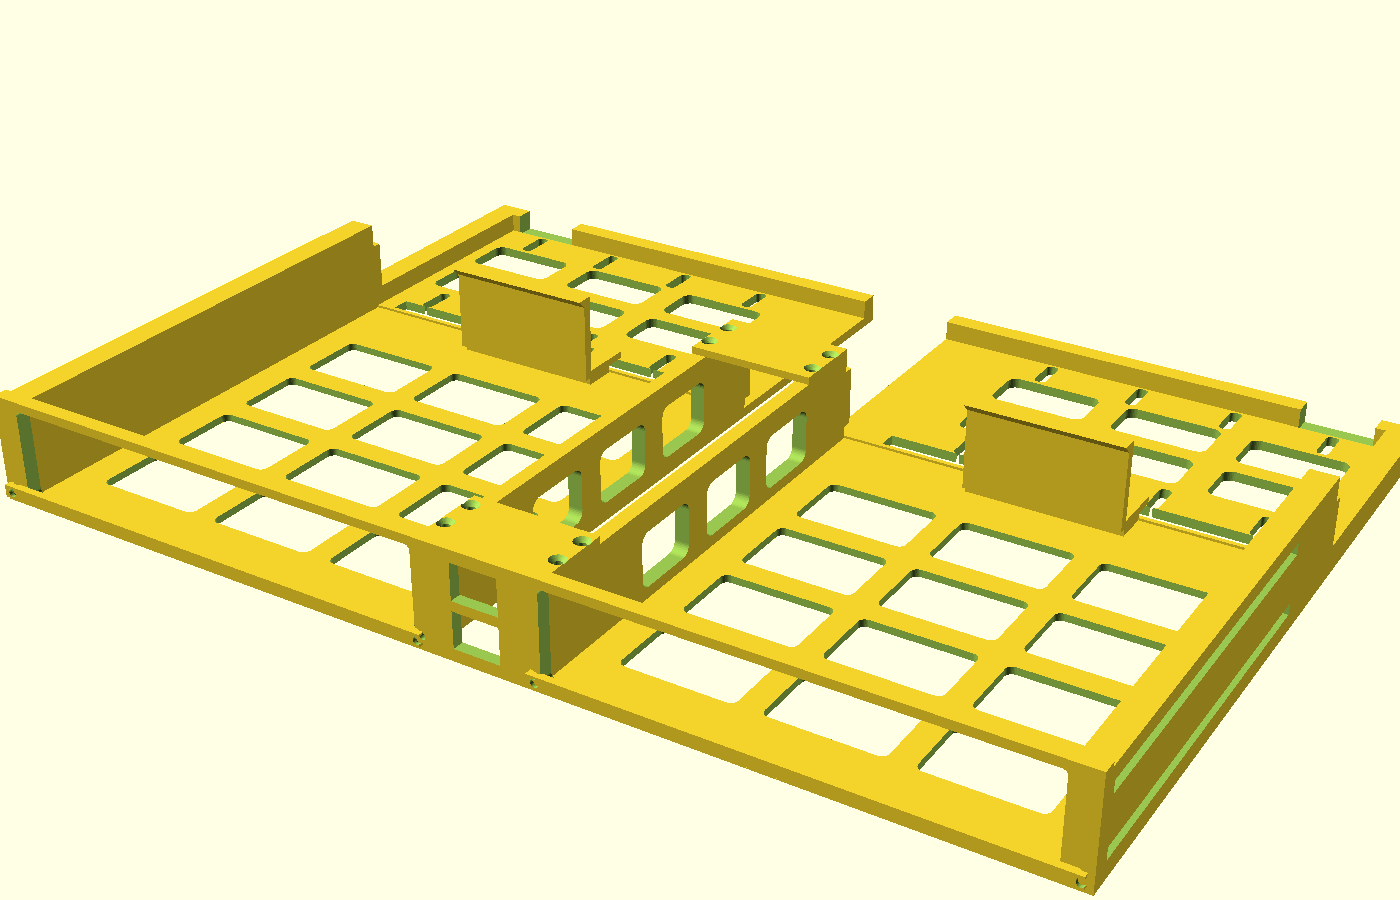
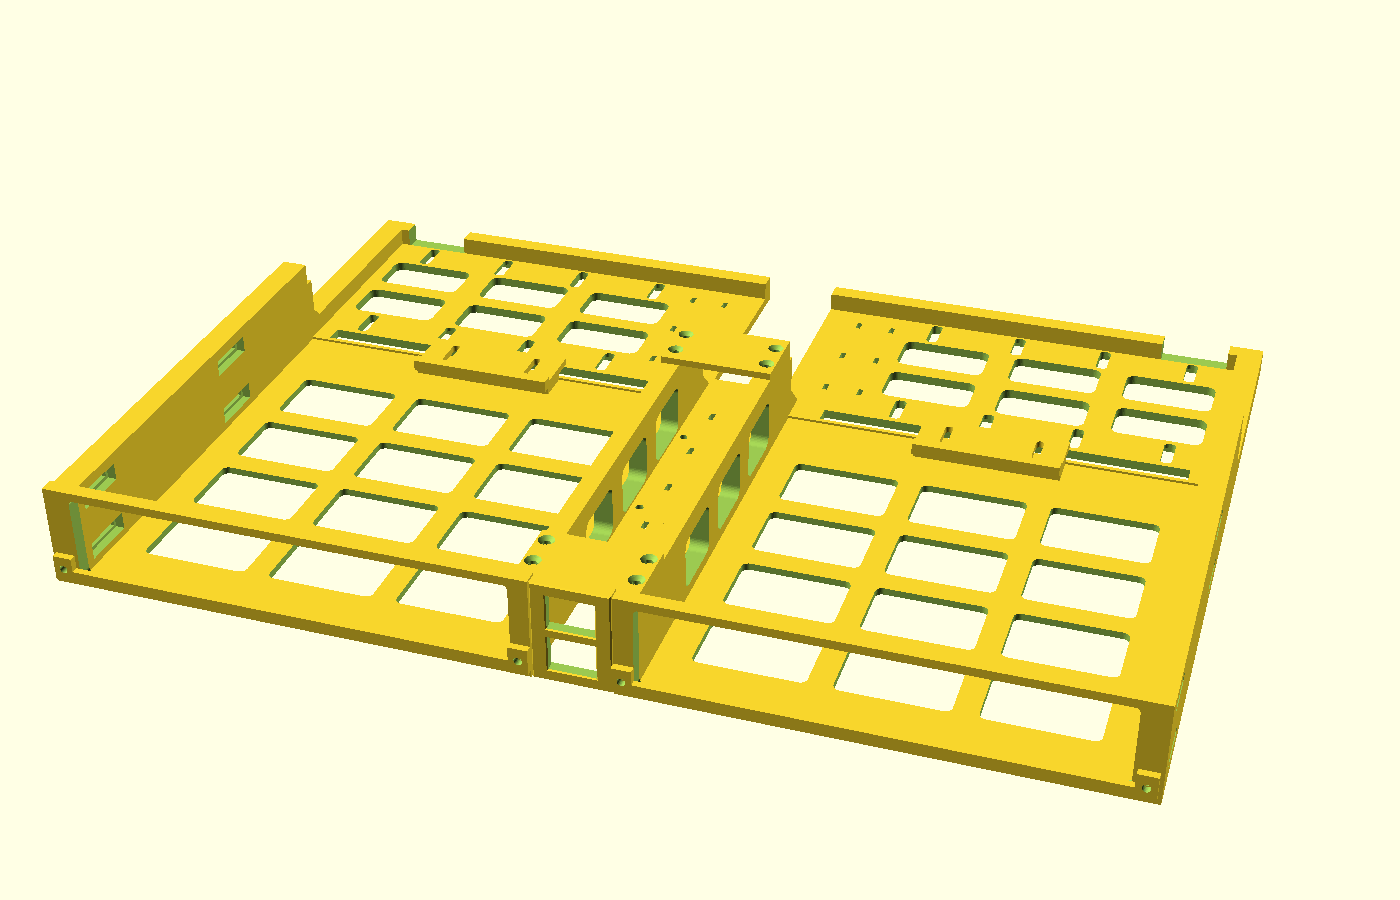
Docs cleanup: correct stale statements, re-render the preview
README
- preview.png re-rendered from the current assembly (it still showed
  v3.1: tall rear hooks, no cable floor, nut channels).
- Status points at the review fixes (D21-D31).
- Layout no longer calls BUILD.md "print settings".
- Open items: coupler choice is slim-head HDMI or mini-DP (not "DP or
  HDMI"); the bracket caliper check adds the bend-to-first-hole
  distance behind ear_c0; new item for the machines' rubber-foot
  positions (#15).

BUILD.md
- Replaces "supports from the build plate are enough" (wrong: the
  support stands on the panel's own lower strip) with a geometric note:
  in the exported orientation the tray strip over each opening and the
  keystone flange wings need support; everything else prints without,
  and tests/run.sh checks it. How to support is left to the 3MF.
- Thermal note: the gap behind each machine is ~40 mm, not ~29.
- Customising table gains nut_s / nut_clr / skin_t; the bracket check
  names ear_c0 too. Title drops "v3".

DECISIONS.md
- In-place correction notes on D15 (headroom, straps, DC leads), D16
  (plenum) and D24 (support scope); timeline row.

Docs and preview only; no geometry change, all checks pass.

diff --git a/docs/BUILD.md b/docs/BUILD.md
@@ -1,4 +1,4 @@
-# Modular 19" Micro-PC Rack System — v3
+# Modular 19" Micro-PC Rack System — build guide
 
 A 1U shelf for two 1-litre micro PCs, front-loading, with a stacked keystone bay for
 video pass-through and a bolt-on rear bay for the power bricks. Mounts on **steel rack
@@ -28,11 +28,10 @@ Source: `cad/rack_1u_micro.scad`. Pre-exported binary meshes in `stl/`; regenera
 One rear stop fits every machine. It's a low curb that touches only the bottom 8 mm of
 the rear face, so it doesn't care about case height or where the ports are.
 
-Largest part is 209 × 206 mm, so a 220 mm bed works with margin. Print everything in the
-orientation it's exported in. **The trays need support under the strip above each PC
-opening**: it spans 184 mm with nothing beneath it. Supports from the build plate are
-enough, and nothing else on the trays needs them. The other parts print without supports.
-Roughly 640 cm³ / 490 g of filament.
+Largest part is 209 × 206 mm, so a 220 mm bed works with margin. The STLs are exported
+in print orientation. In that orientation two features need support: the strip above
+each tray's PC opening, and the keystone flange's two wings. Everything else prints
+without (`tests/run.sh` checks this; D31). Roughly 635 cm³ / 480 g of filament.
 
 **PETG, ASA or PC-blend — not PLA.** Root bending stress is only 0.73 MPa, so this is
 about creep in a warm rack over months, not about strength.
@@ -148,6 +147,7 @@ openscad -o tray_left.stl -D 'part="tray_left"' cad/rack_1u_micro.scad
 | `bb_brace`, `bb_brace_o` | 11, 4.5 | brick bay inner and outer tab braces; the inner one must stay below the M3 head at z 20 |
 | `brk_row_z`, `brk_row_dz` | 9.4, 23.8 | bracket hole rows — change these if your brackets measure differently |
 | `wall_o` | 11 | outer wall; must stay thick enough to hold the ear-bolt pockets |
+| `nut_s`, `nut_clr`, `skin_t` | 7.0, 0.4, 7.3 | square nut size, its pocket clearance (the nut's 9.9 mm diagonal must not fit), and the solid skin the bolt passes through |
 | `ear_c0`, `ear_travel` | 22, 16 | first bracket hole column at mid-travel, and the fore-aft travel of the slots |
 | `bb_depth` | 90 | brick bay depth |
 | `ks_gap` | 4 | vertical gap between the stacked keystone apertures |
@@ -158,14 +158,16 @@ openscad -o tray_left.stl -D 'part="tray_left"' cad/rack_1u_micro.scad
 
 ## Known limitations
 
-- **Thermal:** both machines exhaust rearward toward the brick bay. There's a ~29 mm
-  plenum, an open vent grid under the bricks and an open rear, but two adapters sitting in
+- **Thermal:** both machines exhaust rearward toward the brick bay. There's a ~40 mm gap
+  behind each machine (17 mm to the tray's rear edge plus the 25 mm kept clear at the
+  front of the bay), an open vent grid under the bricks and an open rear, but two adapters sitting in
   a 1U exhaust stream is not a configuration I can promise runs cool. If it does run hot,
   the brick bays unbolt and move to their own U without touching anything else.
 - The Lenovo brick is 35 mm thick and sits on a 4 mm bay floor, leaving about 5.5 mm of
   headroom in the U: room for a velcro strap over the top, nothing more.
 - Verified against the bracket drawing, not against a bracket in hand. Check the 23.8 mm
-  row spacing with calipers before printing both trays; it's a one-parameter fix.
+  row spacing (`brk_row_dz`) and the bend-to-first-hole distance (`ear_c0`) with calipers
+  before printing both trays; each is a one-parameter fix.
 - Front-rail mounting only. The numbers say that's fine — 0.4 mm of creep deflection over
   a warm year — but an asymmetrically loaded shelf will still twist slightly, which is
   what the tie plate is there to resist.

diff --git a/docs/DECISIONS.md b/docs/DECISIONS.md
@@ -27,6 +27,7 @@ the way are noted where they happened and collected under Corrections at the end
 | 2026-09-22 | Ear bolts: square nut, no washer (D29). |
 | 2026-09-22 | Printability fixes from the H2D review (D30). |
 | 2026-09-22 | Tests check each part for unsupported overhangs in print orientation (D31). |
+| 2026-09-22 | Docs cleanup: stale statements corrected, preview re-rendered. |
 
 ---
 
@@ -157,6 +158,9 @@ with mains ends outboard, the pair uses ~372 mm of the width and a 90 mm-deep ba
 lengthwise would have needed ~190 mm of depth. Overall depth ~316 mm. The Lenovo's
 35 mm thickness leaves 6.5 mm of headroom in the U, so straps pass under and around,
 never over. DC leads run forward through the 36 mm centre gap between the two bays.
+*Corrected since: the bay floor is 4 mm, so headroom is ~5.5 mm, and a strap does pass
+over the brick (D24). DC leads only run forward to each machine's own jack; the centre
+gap carries the video leads (D23).*
 
 ### D16 — Thermal risk, accepted and partly de-risked
 Both machines exhaust rearward toward the bricks. Mitigations: ~29 mm plenum, vented
@@ -164,6 +168,8 @@ floor, open rear, and bays that unbolt so the bricks can move to their own U wit
 touching anything else. Later evidence: the closest public design puts two PCs and
 both bricks in 1U with the bricks directly behind, printed in PLA+, and months of
 use by several builders produced no heat or warping complaints. Still worth watching.
+*The plenum is now ~40 mm: the bricks sit behind the 25 mm kept clear for the machines'
+rear plugs.*
 
 Design assumptions: machines that run mostly idle rather than at sustained full
 load, in a rack with its own forced ventilation and an interior at or below about
@@ -335,6 +341,10 @@ Found by working through every screw (reach, length, engagement), every assembly
   the machines slide in from the front.
 - **Supports.** The strip above each PC opening is a 184 mm unsupported span when
   printed floor-down, so the trays need supports there. "No supports" was wrong.
+  *Since then (D31, 2026-09-22): slicer settings, including how to support, are left to
+  the 3MF built from this geometry. BUILD.md only says which features need support, and
+  `tests/run.sh` checks that list. "Supports from the build plate are enough" was wrong:
+  the support stands on the panel's own lower strip.*
 - **Headroom.** The bay floor is 4 mm, not 3, so the Lenovo brick gets about 5.5 mm of
   headroom, not 6.5. A velcro strap does pass over the brick: it has to, to hold it.
   That corrects D15.

diff --git a/README.md b/README.md
@@ -4,9 +4,10 @@
 shelf holding two machines side by side, front-loading, with keystone jacks for
 console video at the front and a bolt-on bay for the power bricks at the rear.
 
-![Assembled v3](docs/preview.png)
+![Assembled shelf](docs/preview.png)
 
-**Status:** v3 designed and verified in CAD. Nothing printed yet.
+**Status:** v3.1 plus the review fixes logged in [DECISIONS.md](docs/DECISIONS.md) (D21–D31),
+verified in CAD. Nothing printed yet.
 
 ## What it has to do
 
@@ -34,7 +35,7 @@ stl/                     binary STLs, pre-oriented for printing; regenerate with
 build.sh                 renders every part from the source
 tests/run.sh             interference, clearance and alignment checks
 tools/canon_stl.py       makes STL output stable, so git diffs mean real changes
-docs/BUILD.md            print settings, bill of materials, assembly
+docs/BUILD.md            parts, bill of materials, assembly, servicing
 docs/DECISIONS.md        why the design is the way it is
 docs/prior-art.md        survey of public designs and what was learned from them
 ```
@@ -71,12 +72,16 @@ where relevant.
 
 ## Open items
 
-- [ ] Caliper-check the steel bracket's 23.8 mm hole-row spacing before printing both
-      trays. If it differs, change `brk_row_dz`.
+- [ ] Caliper-check the steel bracket before printing both trays: the 23.8 mm hole-row
+      spacing (`brk_row_dz`), and the bend-to-first-hole distance, which was never on the
+      drawing (`ear_c0` assumes ~15 mm; the ±8 mm slots absorb small errors).
 - [ ] Print one tray first and test-fit both machines.
 - [ ] Watch temperatures for the first few weeks — see the thermal note in
       DECISIONS.md.
-- [ ] Choose a keystone coupler type (DP or HDMI) per machine.
+- [ ] Choose a keystone coupler per machine: slim-head HDMI or mini-DP (standard-head
+      plugs don't fit; see BUILD.md and D26).
+- [ ] Measure each machine's rubber-foot positions, so the floor vents can leave solid
+      runners under them (#15).
 - [ ] Get the MS-01 power adapter dimensions, then design the 2U shelf.
 
 ## Licence
